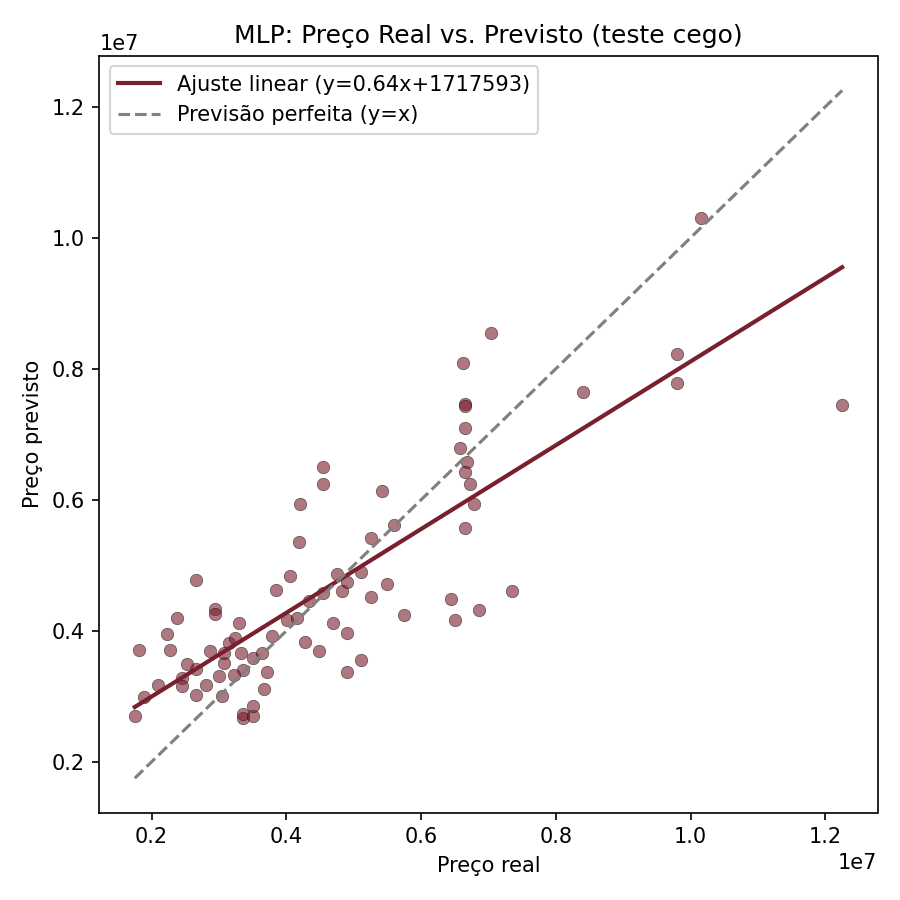
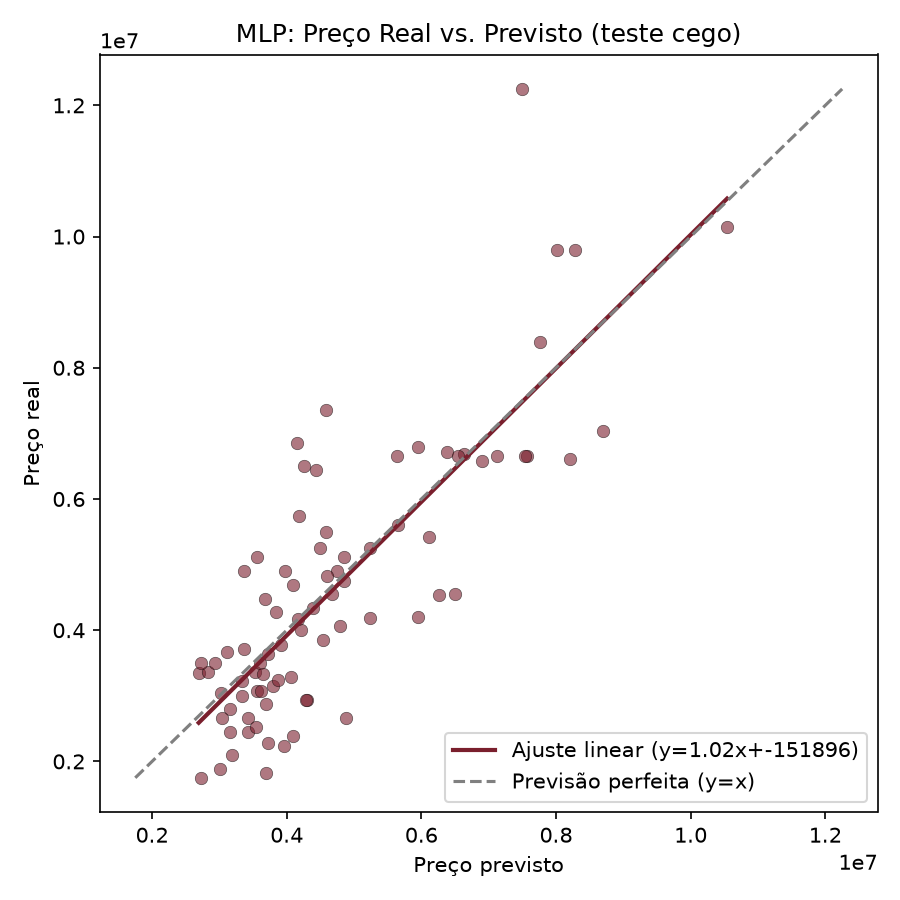
Corrige eixos do scatter plot (real vs previsto)

diff --git a/src/train_tree.py b/src/train_tree.py
@@ -23,24 +23,26 @@ OUT_DIR.mkdir(exist_ok=True)
 
 
 def plot_scatter_with_fit(y_true, y_pred, title, save_path):
-    """Scatter real vs. previsto + reta de ajuste linear (regressão) +
-    linha de referência y=x (previsão perfeita)."""
+    """Scatter preço real (Y) vs. preço previsto (X) + reta de ajuste linear
+    (regressão) + linha de referência y=x (previsão perfeita)."""
     fig, ax = plt.subplots(figsize=(6, 6))
-    ax.scatter(y_true, y_pred, alpha=0.6, edgecolor="k", linewidth=0.3, color="#7A1F2D")
+    ax.scatter(y_pred, y_true, alpha=0.6, edgecolor="k", linewidth=0.3, color="#7A1F2D")
 
-    # Reta de ajuste linear real vs previsto (polyfit grau 1)
-    coeffs = np.polyfit(y_true, y_pred, deg=1)
+    # Reta de ajuste linear: real em função do previsto (polyfit grau 1)
+    coeffs = np.polyfit(y_pred, y_true, deg=1)
     fit_line = np.poly1d(coeffs)
-    x_range = np.linspace(y_true.min(), y_true.max(), 100)
+    x_range = np.linspace(y_pred.min(), y_pred.max(), 100)
     ax.plot(x_range, fit_line(x_range), color="#7A1F2D", linewidth=2,
              label=f"Ajuste linear (y={coeffs[0]:.2f}x+{coeffs[1]:.0f})")
 
     # Linha de referência: previsão perfeita (y = x)
-    ax.plot(x_range, x_range, color="gray", linestyle="--", linewidth=1.5,
+    full_range = np.linspace(min(y_pred.min(), y_true.min()),
+                              max(y_pred.max(), y_true.max()), 100)
+    ax.plot(full_range, full_range, color="gray", linestyle="--", linewidth=1.5,
              label="Previsão perfeita (y=x)")
 
-    ax.set_xlabel("Preço real")
-    ax.set_ylabel("Preço previsto")
+    ax.set_xlabel("Preço previsto")
+    ax.set_ylabel("Preço real")
     ax.set_title(title)
     ax.legend()
     plt.tight_layout()

diff --git a/src/train_mlp.py b/src/train_mlp.py
@@ -77,18 +77,20 @@ def plot_training_curve(history, save_path):
 
 def plot_scatter_with_fit(y_true, y_pred, title, save_path):
     fig, ax = plt.subplots(figsize=(6, 6))
-    ax.scatter(y_true, y_pred, alpha=0.6, edgecolor="k", linewidth=0.3, color="#7A1F2D")
+    ax.scatter(y_pred, y_true, alpha=0.6, edgecolor="k", linewidth=0.3, color="#7A1F2D")
 
-    coeffs = np.polyfit(y_true, y_pred, deg=1)
+    coeffs = np.polyfit(y_pred, y_true, deg=1)
     fit_line = np.poly1d(coeffs)
-    x_range = np.linspace(y_true.min(), y_true.max(), 100)
+    x_range = np.linspace(y_pred.min(), y_pred.max(), 100)
     ax.plot(x_range, fit_line(x_range), color="#7A1F2D", linewidth=2,
              label=f"Ajuste linear (y={coeffs[0]:.2f}x+{coeffs[1]:.0f})")
-    ax.plot(x_range, x_range, color="gray", linestyle="--", linewidth=1.5,
+    full_range = np.linspace(min(y_pred.min(), y_true.min()),
+                              max(y_pred.max(), y_true.max()), 100)
+    ax.plot(full_range, full_range, color="gray", linestyle="--", linewidth=1.5,
              label="Previsão perfeita (y=x)")
 
-    ax.set_xlabel("Preço real")
-    ax.set_ylabel("Preço previsto")
+    ax.set_xlabel("Preço previsto")
+    ax.set_ylabel("Preço real")
     ax.set_title(title)
     ax.legend()
     plt.tight_layout()
